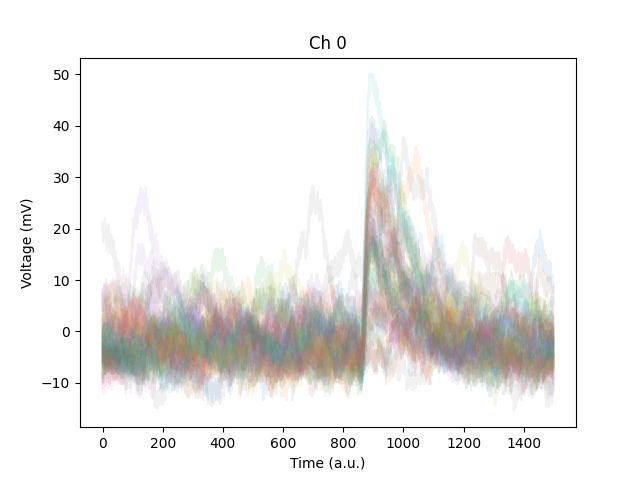
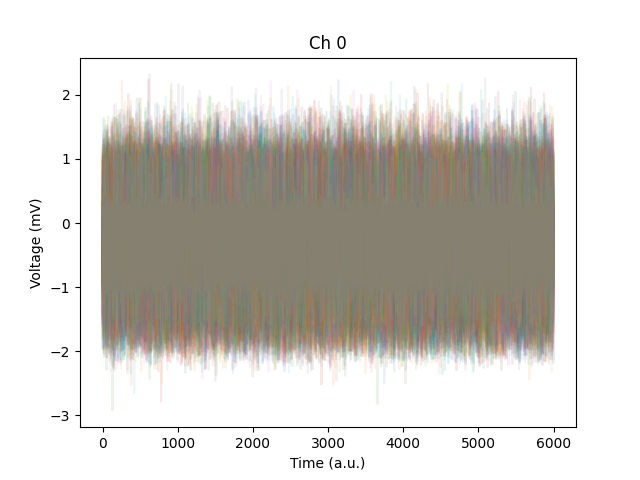
Updated DAQ scripts

diff --git a/AnalysisScripts/CurrentScripts/myAna23SingleDataSet.py b/AnalysisScripts/CurrentScripts/myAna23SingleDataSet.py
@@ -11,7 +11,6 @@ import numpy as np
 import MPPCAnalysisFunctions23 as myFunc
 import matplotlib
 import matplotlib.pyplot as plt
-#matplotlib.use('agg')
 from scipy.optimize import curve_fit
 from fitFunctions import Moyal,Gaus
 from loadSettings import load_analysis_conf
@@ -49,33 +48,12 @@ def main():
         myFunc.SetBins(histogram["NumberOfBins"],histogram["LowerRange"],histogram["UpperRange"])
         myFunc.SetSignalWindow(np.array(analysisWindow["Start"]),np.array(analysisWindow["Stop"]),np.array(analysisWindow["Baseline"]))
         myFunc.EnableMovingAverageFilter(filtering["MovingAveragePoints"])
-        myFunc.EnableFFTFilter(filtering["FFTCutoffFrequency"])
-        myFunc.EnableBaselineFilter()
-        myFunc.EnableTriggerCut(1,0,195)
-        #Files = os.listdir(f)
-        
-        #Search = f 
-        #os.chdir(Search)
-        #Files = filter(os.path.isfile, os.listdir(Search))
-        #Files = [os.path.join(Search, fi) for fi in Files] # add path to each file
-        #Files.sort(key=lambda x: os.path.getmtime(x))
-        
-        #for file in Files:
-        #    print(file)
-        #    stat = os.path.getmtime(file)
-        #    Times.append(stat)
-
-        #    print("File time = ", stat)
+        myFunc.EnableFFTFilter(filtering["UpperFFTCutoffFrequency"],filtering["LowerFFTCutoffFrequency"])
+        #myFunc.EnableBaselineFilter()
+        #myFunc.EnableTriggerCut(1,0,195)
         
         nch,trR,pData,hData, nEv = myFunc.AnalyseFolder(f,False)
         trR = np.array(trR)
-        #if(count!=0):
-        #    TriggerRs = np.concatenate((TriggerRs,trR))
-        #else: TriggerRs = trR
-        #count = count + 1
-        #print(TriggerRs)
-        #myFunc.PlotWaveformsFromAFile(f+"/data1.npy") 
-        #plt.savefig("Test1.png")
        
         if len(bins)==0:
            for i in range(int(len(hData)/2)):
@@ -85,50 +63,17 @@ def main():
             for i in range(int(len(hData)/2)):
                 vals[i] = vals[i]+hData[2*i+1]
 
-        #For Irradiation Tests with Main Counter (Ch A) and Trigger Counter (ChB)
-        MainC = pData[0]
-        TrigC = pData[1]
-        #print(len(pData[0]))
-        #print(len(pData[1]))
-        plt.figure()
-        #H, xedges, yedges = np.histogram2d(TrigC, MainC, bins=250)
-        #plt.pcolormesh(xedges, yedges, H, cmap='rainbow')
-        plt.hist2d(MainC,TrigC,bins = (100,40), norm='log')
-        plt.colorbar()
-        plt.ylabel("Trigger Peak (mV)")
-        plt.xlabel("Main Counter Peak (mV)")
-        plt.savefig(str(FileNaming)+"_"+str(count)+"_TrigVMain.png")
-        #os.system("mv ./"+str(FileNaming)+"TrigVMain* /mnt/c/Users/yfuj0004/work/MarchPMT_Tests/")
-        #plt.figure()
-        #Times = np.array(Times)
-        #plt.scatter(Times-Times[0],TriggerRs)
-        #plt.xlabel("Time (s)")
-        #plt.ylabel("Trigger Rate (Hz)")
-        #plt.show()
-        
+        fig, axes = plt.subplots(1,nch,squeeze=False)
+        for i in range(nch):
+            axes[0,i].bar(bins[i][:-1],vals[i],width=bins[i][1]-bins[i][0],color='blue')
+            axes[0,i].set_xlabel("Peak Voltage (mV)")
+            axes[0,i].set_ylabel("Count")
+            axes[0,i].set_title("Channel "+str(i))
 
-        fig, axs = plt.subplots(1,nch)
-        #axs = axs.ravel()
-        for i in range(len(bins)):
-            #ax = fig.add_subplot(1, 2, 1 + i)
-            axs[i].bar(bins[i][:-1],vals[i],width=bins[i][1]-bins[i][0],color='blue')
-            #axs[i].set_ylim(bottom=0.2)
-            #plt.yscale('log')
-            axs[i].set_xlabel("Peak Voltage (mV)")
-            axs[i].set_ylabel("Count")
-            axs[i].set_title("Channel "+str(i))
-
-            if histogram["GaussianFit"]==True and i==0:
+            if histogram["GaussianFit"][i]==True:
                 xdata = bins[i][:-1]
                 ydata = vals[i]
-                #ydata = myFunc.MovAvFilter(ydata)
                 p_guess = [np.max(ydata),xdata[np.argmax(ydata)],0.25*xdata[np.argmax(ydata)]]
-                # inc = (histogram["UpperRange"]-histogram["LowerRange"])/histogram["NumberOfBins"]
-                # thresh_val = int(250/inc)
-                # print("Fitting")
-                # print(inc)
-                # print(thresh_val)
-                # popt,pcov = curve_fit(Gaus,xdata=xdata[:thresh_val],ydata=ydata[:thresh_val],p0=p_guess,maxfev=5000)
                 popt,pcov = curve_fit(Gaus,xdata=xdata,ydata=ydata,sigma = np.sqrt(ydata), p0=p_guess,maxfev=5000)
                 perr = np.sqrt(np.diag(pcov))
                 print("Gaussian Fit Parameters")
@@ -150,8 +95,7 @@ def main():
                 print("Stat Uncertainty from Fitting")
                 perr = np.sqrt(np.diag(pcov))
                 print(perr)
-                axs[i].plot(xdata,Gaus(xdata,*popt),color='k',linestyle='--')
-                #axs[i].text(350,np.max(ydata)+i*20,str(r'$\mu$=%.2f $\pm$ %.2f' % (popt[1],perr[1])),fontsize=18)
+                axes[0,i].plot(xdata,Gaus(xdata,*popt),color='k',linestyle='--')
                 
                 diff = (ydata-Gaus(xdata,*popt))**2
                 sigma = np.sqrt(ydata)
@@ -183,7 +127,7 @@ def main():
             
                 #os.system("mv ./"+str(FileNaming)+"Gaussian* /mnt/c/Users/yfuj0004/work/")
                         
-            if histogram["LandauFit"]==True and i==0:
+            if histogram["LandauFit"][i]==True:
                 #plt.yscale('log')
                 ### Try Laudau fitting
                 #xdata = bins[i][:-1][bins[i][:-1]]
@@ -201,8 +145,8 @@ def main():
                 print(perr)
                 
                 ymax = np.max(Moyal(xdata,*popt))
-                axs[i].plot(xdata,Moyal(xdata,*popt),c='r',label='Landau')
-                axs[i].text(350,ymax+i*20,str(r'$\mu$=%.2f $\pm$ %.2f' % (popt[1],perr[1])),fontsize=18)
+                axes[0,i].plot(xdata,Moyal(xdata,*popt),c='r',label='Landau')
+                axes[0,i].text(350,ymax+i*20,str(r'$\mu$=%.2f $\pm$ %.2f' % (popt[1],perr[1])),fontsize=18)
                 #plt.savefig(str(FileNaming)+'Landau_'+str(i)+'.png')
                 
                 diff = (ydata-Moyal(xdata,*popt))**2
@@ -223,6 +167,8 @@ def main():
     print(uMeanPeakVals)
     print(Chis)
     plt.show()
+
+
 if __name__ == "__main__":
     args=sys.argv
     #### name of the folder where you have the data to be analysed

diff --git a/AnalysisScripts/CurrentScripts/MPPCAnalysisFunctions23.py b/AnalysisScripts/CurrentScripts/MPPCAnalysisFunctions23.py
@@ -110,7 +110,8 @@ BaseF  = 0
 TrigF  = 0
 
 
-CutoffFreq = 400 ## FFT cut-off frequency in MHz
+UpperCutoffFreq = 400 ## FFT cut-off frequency in MHz (high)
+LowerCutoffFreq = 400 ##FFT cut-off frequency in MHz (low)
 MNumber    = 20  ## moving average filter number
 TrigCutOffLow = 50 ## trigger cut value low
 TrigCutOffHigh = 150 ## trigger cut value high
@@ -197,8 +198,10 @@ def FFTFilter(Data):
     fftV = fftpack.fft(Data)   
     samplefreq=fftpack.fftfreq(Samples, dt)
     Copy = fftV.copy()
-    Copy[np.abs(samplefreq)>CutoffFreq*1e6]=0
-    
+    Copy[np.abs(samplefreq)>UpperCutoffFreq*1e6]=0
+    if(LowerCutoffFreq!=UpperCutoffFreq):
+        Copy[np.abs(samplefreq)<LowerCutoffFreq*1e6]=0
+
     filteredsig=fftpack.ifft(Copy)
     Signal = filteredsig.real
 
@@ -224,11 +227,12 @@ def PlotWaveformsFromAFile(FName,plotch=-1,start=-1,end=-1):
 
     #Plot all waveforms from a given file
     if (LoadFile(FName)==False):ErrorExit("DecodeChannels()")
-    AnalyseFlag=0
+    AnalyseFlag=1
     Waveforms,SumWaveforms = DecodeChannels(FName)  
     for ch in range(NCh): 
         if (plotch>0 and ch!=plotch): continue
         plt.figure()
+        plt.figure(figsize=(16,8),dpi=80)
         for i in range(len(Waveforms[ch])):
             #plt.figure()
             if (start>=0 and i<start): continue
@@ -236,8 +240,11 @@ def PlotWaveformsFromAFile(FName,plotch=-1,start=-1,end=-1):
             
             if(AnalyseFlag==1):
                 Signal = Waveforms[ch][i]
+                #plt.plot(Signal,alpha=0.3,label='Raw')
                 if(FreqF ==1): Signal = FFTFilter(Signal)   ### Move this before the moving average filter
+                #plt.plot(Signal,alpha=0.9,label='FFT')
                 if(MovAvF==1): Signal = MovAvFilter(Signal)
+                plt.plot(Signal,alpha=0.1,label='MA')
                 if(BaseF ==1): Signal = BaselineFilter(ch,Signal)
                 Signal = Polarity[int(ch)]*Signal
                 ChT = np.linspace(0,len(Signal)*TimeScale,len(Signal)) #All channels have a dt = 0.8 ns
@@ -262,12 +269,15 @@ def PlotWaveformsFromAFile(FName,plotch=-1,start=-1,end=-1):
           
             if(AnalyseFlag==1): 
                 PlotSignal = Signal
-                if(PeakVal<70): plt.plot(Signal, alpha=0.1)
+                #plt.plot(Signal, alpha=0.9)
             else: 
                 PlotSignal = Waveforms[ch][i]
                 plt.plot(PlotSignal,alpha=0.1)
             plt.xlabel("Time (a.u.)")
             plt.ylabel("Voltage (mV)")
+            plt.ylim([-50,50])
+            plt.xlim([3000,6000])
+            plt.legend()
             plt.title("Ch "+str(ch))
 
         plt.savefig("Channel_"+str(ch)+".png")
@@ -342,10 +352,12 @@ def EnableMovingAverageFilter(num):
     return
 
 ### Enabling FFT-based Filter
-def EnableFFTFilter(freq):
+def EnableFFTFilter(freqU,freqL):
     global FreqF
-    global CutoffFreq
-    CutoffFreq = freq
+    global UpperCutoffFreq
+    global LowerCutoffFreq
+    UpperCutoffFreq = freqU
+    LowerCutoffFreq = freqL
     FreqF = 1
     return
 

diff --git a/AnalysisScripts/CurrentScripts/plotWf.py b/AnalysisScripts/CurrentScripts/plotWf.py
@@ -34,8 +34,8 @@ def main(output,plotch,start,end):
         myFunc.SetBins(histogram["NumberOfBins"],histogram["LowerRange"],histogram["UpperRange"])
         myFunc.SetSignalWindow(np.array(analysisWindow["Start"]),np.array(analysisWindow["Stop"]),np.array(analysisWindow["Baseline"]))
         myFunc.EnableMovingAverageFilter(filtering["MovingAveragePoints"])
-        myFunc.EnableFFTFilter(filtering["FFTCutoffFrequency"])
-        myFunc.EnableBaselineFilter()
+        myFunc.EnableFFTFilter(filtering["UpperFFTCutoffFrequency"],filtering["LowerFFTCutoffFrequency"])
+       # myFunc.EnableBaselineFilter()
         #nch, trR, hData = myFunc.AnalyseFolder(f,False)
         #plt.show()
         FileString = folder+str(file)+ext

diff --git a/slowcontrol/VoltageControl_RS232.py b/slowcontrol/VoltageControl_RS232.py
@@ -172,7 +172,7 @@ def ZeroVoltage(VoltageRead,instrument):
 VoltageRead = ReadVoltage(instrument)
 print(VoltageRead)
 #Turn off voltage if VoltageRead is not 0 V at the beginning...
-if(VoltageRead>0.0): ZeroVoltage(VoltageRead)
+if(VoltageRead>0.0): ZeroVoltage(VoltageRead,instrument)
 VoltageRead = ReadVoltage(instrument)
 SetRange(VoltageLevel,instrument)
 instrument.write("SOUR:VOLT:ILIM 2.5e-4") #Limit current?

diff --git a/daq/SingleDAQ/runModule.py b/daq/SingleDAQ/runModule.py
@@ -61,8 +61,8 @@ def RunAmpDAQ(SubRun,Settings,Stat,SigGen):
 
 
 
-def CloseDAQs(Settings,Stat): 
-    for i in range(len(Settings)): daq.close(Settings[i],Stat[2*i]) #close the daq
+def CloseDAQs(Settings): 
+    daq.close(Settings) #close the daq
     return
 
 if __name__ == "__main__":
